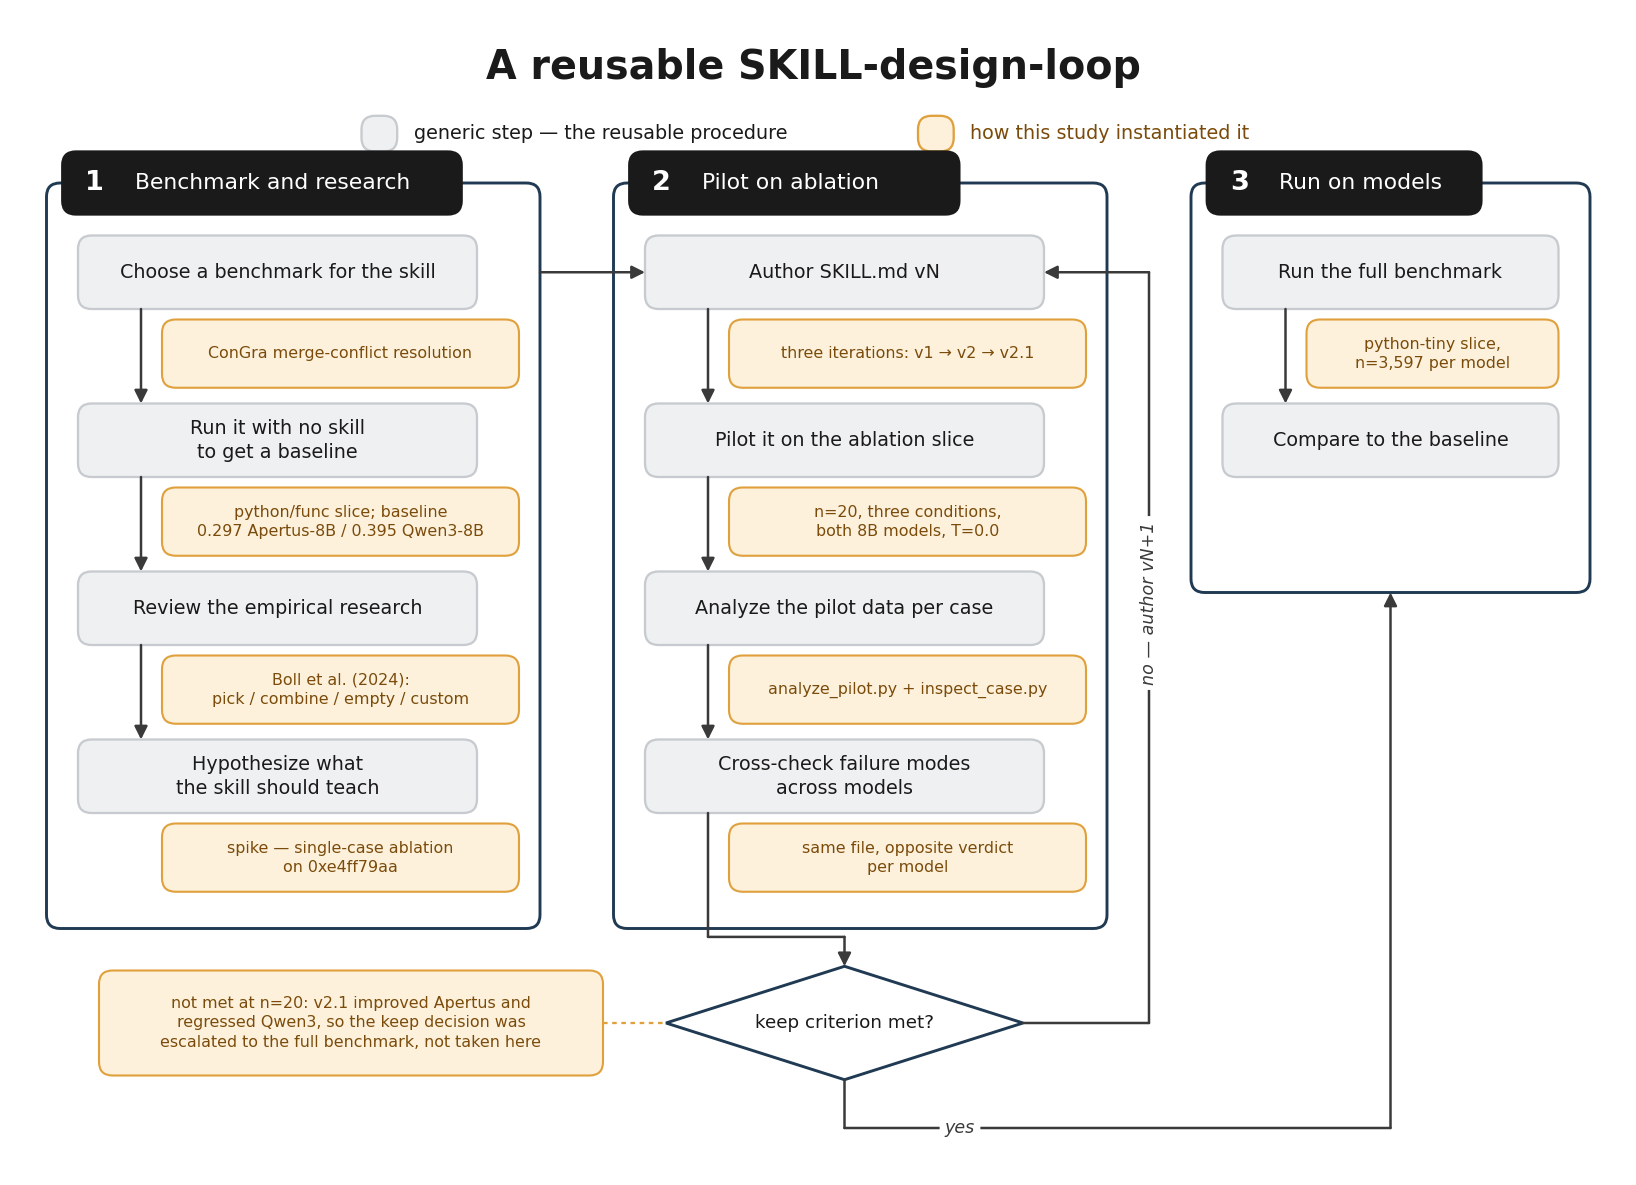
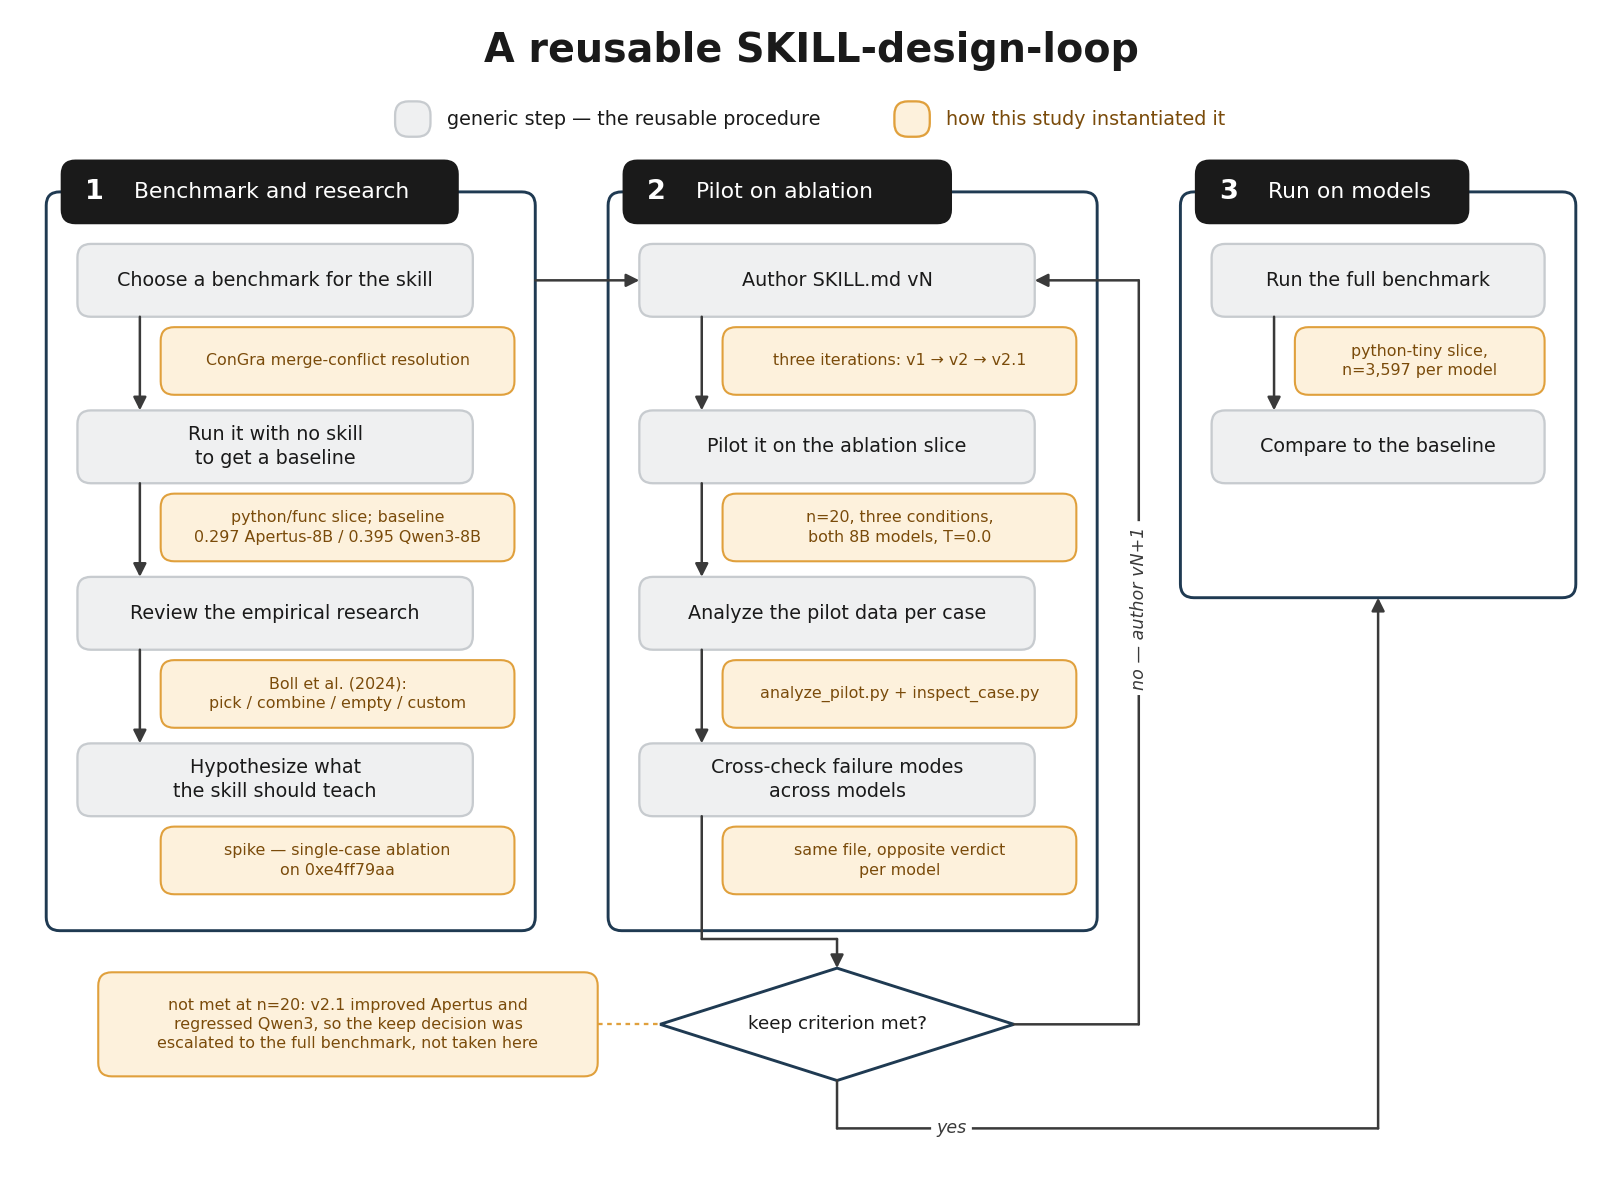
figures: centre the skill-design loop legend clear of the stage pills (#119)
The legend swatches sat at y=79.0 and the stage header pills top out at
exactly y=79.0, so both swatches collided with the pills below them and the
legend read as cut off.

The row is now measured with the renderer and centred as a group, at y=83
with the title lifted to 89.5, so it stays centred if a label is reworded.
draw_legend takes its entries and centre as arguments so the other figures
in this chapter can share it.

Changed region(s): [[0.0308, 0.0312, 0.9864, 0.9367], [0.7398, 0.4996, 0.9556, 0.5308]]

diff --git a/scripts/plot_skill_design_loop.py b/scripts/plot_skill_design_loop.py
@@ -78,6 +78,15 @@ INSTANCES = [
 DIAMOND = (79.0, -4.0)
 DIAMOND_HW, DIAMOND_HH = 17.0, 5.4
 
+# Horizontal centre of the canvas: the stage containers span x = 3 to x = 150.
+CENTER = 76.5
+
+# Legend entries: (facecolor, edgecolor, textcolor, label).
+LEGEND = [
+    (STEP_FC, STEP_EC, INK,     "generic step — the reusable procedure"),
+    (INST_FC, INST_EC, INST_TX, "how this study instantiated it"),
+]
+
 
 def rbox(ax, x, y, w, h, fc, ec, lw=1.1):
     ax.add_patch(FancyBboxPatch(
@@ -99,6 +108,42 @@ def edge_label(ax, x, y, text, rotation=0):
     ax.text(x, y, text, fontsize=8.4, style="italic", color=ARROW,
             ha="center", va="center", rotation=rotation, zorder=4,
             bbox=dict(boxstyle="round,pad=0.3", fc="white", ec="none"))
+
+
+def text_widths(fig, ax, labels, fontsize, **kwargs):
+    """Rendered width of each label, in data units.
+
+    Measured from the renderer rather than estimated from the character count, so
+    layouts built on these stay put when a label is reworded.
+    """
+    fig.canvas.draw()
+    renderer = fig.canvas.get_renderer()
+    to_data = ax.transData.inverted()
+
+    widths = []
+    for label in labels:
+        probe = ax.text(0, 0, label, fontsize=fontsize, **kwargs)
+        widths.append(probe.get_window_extent(renderer=renderer)
+                      .transformed(to_data).width)
+        probe.remove()
+    return widths
+
+
+def draw_legend(fig, ax, y, entries, center, fontsize=9.2, sw=3.4, pad=1.6, gap=7.0):
+    """Swatch + label pairs in one row, centred as a group on `center`.
+
+    Shared with the other figures in this chapter so the legend reads identically
+    across them; `entries` are (facecolor, edgecolor, textcolor, label) tuples.
+    """
+    widths = text_widths(fig, ax, [e[3] for e in entries], fontsize)
+
+    total = sum(sw + pad + w for w in widths) + gap * (len(entries) - 1)
+    x = center - total / 2
+    for (fc, ec, tc, label), w in zip(entries, widths):
+        rbox(ax, x, y - sw / 2, sw, sw, fc, ec)
+        ax.text(x + sw + pad, y, label, fontsize=fontsize, color=tc,
+                ha="left", va="center")
+        x += sw + pad + w + gap
 
 
 def draw(ax):
@@ -164,19 +209,15 @@ def draw(ax):
 def main():
     fig, ax = plt.subplots(figsize=(15.0, 10.0))
     ax.set_xlim(0, 153)
-    ax.set_ylim(-18, 92)
+    ax.set_ylim(-18, 93)
     ax.set_aspect("equal")
     ax.axis("off")
 
-    ax.text(76.0, 87.0, "A reusable SKILL-design-loop", fontsize=19,
+    ax.text(CENTER, 89.5, "A reusable SKILL-design-loop", fontsize=19,
             fontweight="bold", color=INK, ha="center", va="center")
 
-    rbox(ax, 33.0, 79.0, 3.4, 3.4, STEP_FC, STEP_EC)
-    ax.text(38.0, 80.7, "generic step — the reusable procedure", fontsize=9.2,
-            color=INK, ha="left", va="center")
-    rbox(ax, 86.0, 79.0, 3.4, 3.4, INST_FC, INST_EC)
-    ax.text(91.0, 80.7, "how this study instantiated it", fontsize=9.2,
-            color=INST_TX, ha="left", va="center")
+    # y = 83 clears the stage header pills, which top out at y = 79.
+    draw_legend(fig, ax, y=83.0, entries=LEGEND, center=CENTER)
 
     draw(ax)
 
